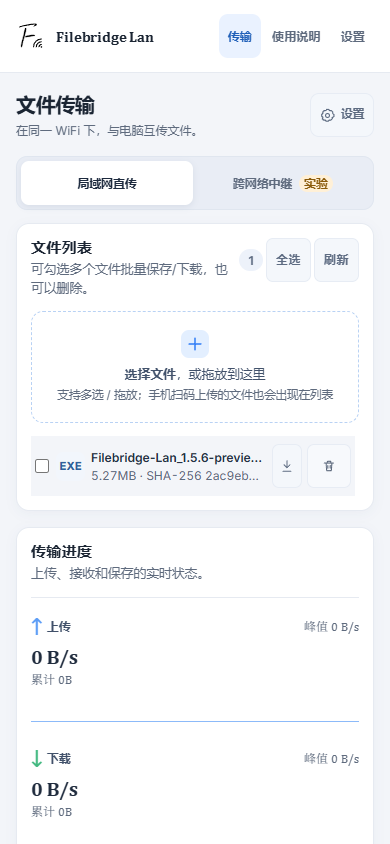
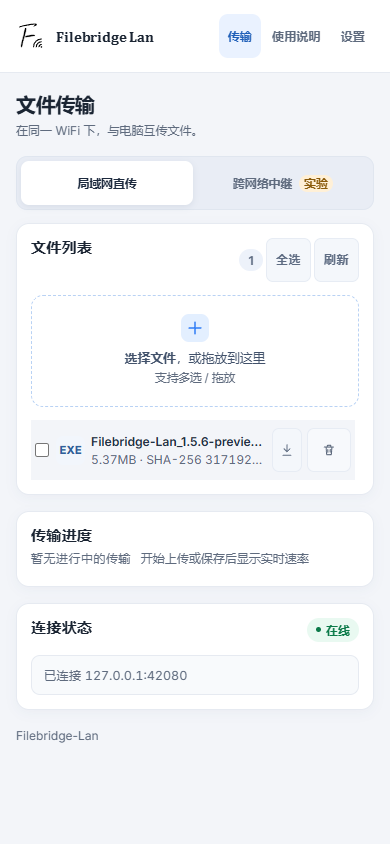
style: refine desktop and mobile interface

diff --git a/src/http/HttpTransfer.tsx b/src/http/HttpTransfer.tsx
@@ -1470,6 +1470,7 @@ export function HttpTransfer({ lanService = null, networkBlocked = false }: Http
       ? liveSpeed
       : 0;
   const effectiveDownloadSpeed = activeDownload ? downloadSpeed : 0;
+  const hasActiveTransfer = Boolean(upload || visibleLiveUpload || activeDownload);
   const [uploadPeak, setUploadPeak] = useState(0);
   const [downloadPeak, setDownloadPeak] = useState(0);
   const [uploadHistory, setUploadHistory] = useState<number[]>(() => Array(24).fill(0));
@@ -1543,13 +1544,7 @@ export function HttpTransfer({ lanService = null, networkBlocked = false }: Http
   const allSelected = files.length > 0 && files.every((file) => selectedIds.has(file.id));
 
   const pairingLabel = token
-    ? publicPaused
-      ? '已配对 · 当前不可连接'
-      : online === true
-        ? '已配对 · 在线'
-        : online === false
-          ? '已配对 · 服务异常'
-          : '已配对 · 连接中'
+    ? '已配对'
     : codeError
       ? '授权已过期'
       : '未配对';
@@ -1747,7 +1742,6 @@ export function HttpTransfer({ lanService = null, networkBlocked = false }: Http
           <div className="card-head">
             <div>
               <h2>文件列表</h2>
-              <p>可勾选多个文件批量保存/下载，也可以删除。</p>
             </div>
             <div className="card-actions">
               <span className="count-badge">{files.length}</span>
@@ -1831,7 +1825,7 @@ export function HttpTransfer({ lanService = null, networkBlocked = false }: Http
           >
             <span className="drop-icon" aria-hidden><Icon name="plus" size={20} /></span>
             <p><strong>选择文件</strong>，或拖放到这里</p>
-            <p className="hint">支持多选 / 拖放；手机扫码上传的文件也会出现在列表</p>
+            <p className="hint">支持多选 / 拖放</p>
           </div>
 
           {needsPicker && (
@@ -1970,34 +1964,36 @@ export function HttpTransfer({ lanService = null, networkBlocked = false }: Http
           </div>
         </article>
 
-        <article className="card progress-card">
+        <article className={`card progress-card${hasActiveTransfer ? '' : ' is-idle'}`}>
           <div className="card-head">
             <div>
               <h2>传输进度</h2>
-              <p>上传、接收和保存的实时状态。</p>
+              {hasActiveTransfer && <p>上传、接收和保存的实时状态。</p>}
             </div>
           </div>
 
-          <div className="rate-grid">
-            <RateCard
-              label="上传"
-              icon="↑"
-              speed={effectiveUploadSpeed}
-              peak={uploadPeak}
-              total={uploadTotal}
-              history={uploadHistory}
-              tone="blue"
-            />
-            <RateCard
-              label="下载"
-              icon="↓"
-              speed={effectiveDownloadSpeed}
-              peak={downloadPeak}
-              total={downloadTotal}
-              history={downloadHistory}
-              tone="green"
-            />
-          </div>
+          {hasActiveTransfer && (
+            <div className="rate-grid">
+              <RateCard
+                label="上传"
+                icon="↑"
+                speed={effectiveUploadSpeed}
+                peak={uploadPeak}
+                total={uploadTotal}
+                history={uploadHistory}
+                tone="blue"
+              />
+              <RateCard
+                label="下载"
+                icon="↓"
+                speed={effectiveDownloadSpeed}
+                peak={downloadPeak}
+                total={downloadTotal}
+                history={downloadHistory}
+                tone="green"
+              />
+            </div>
+          )}
 
           {upload && (
             <div className="progress-block">
@@ -2025,14 +2021,7 @@ export function HttpTransfer({ lanService = null, networkBlocked = false }: Http
                 {upload.checking && <span>正在核对服务器已保存进度…</span>}
                 {upload.status === 'cancelled' && <span>已取消，可继续上传</span>}
                 {upload.status === 'error' && <span className="text-error" role="alert">{upload.error || '上传失败'}</span>}
-                {!upload.checking
-                  && upload.status !== 'done'
-                  && uploadInFlightBytes > uploadLoadedBytes
-                  && (
-                    <span className="upload-diagnostic">
-                      浏览器已发送 {formatBytes(uploadInFlightBytes)}，服务器已保存 {formatBytes(uploadLoadedBytes)}
-                    </span>
-                  )}
+
               </div>
               <details className="upload-diag" open={upload.status === 'error'}>
                 <summary>上传诊断</summary>
@@ -2118,11 +2107,10 @@ export function HttpTransfer({ lanService = null, networkBlocked = false }: Http
             </div>
           )}
 
-          {!upload && !showLiveUpload && !activeDownload && (
-            <div className="progress-empty">
-              <Icon name="arrow-up-right" size={16} />
-              <p>暂无进行中的传输</p>
-              <p className="hint">上传或保存文件后，这里会显示速度和剩余时间。</p>
+          {!hasActiveTransfer && (
+            <div className="progress-idle">
+              <span>暂无进行中的传输</span>
+              <span className="hint">开始上传或保存后显示实时速率</span>
             </div>
           )}
         </article>
@@ -2131,7 +2119,7 @@ export function HttpTransfer({ lanService = null, networkBlocked = false }: Http
           <div className="card-head">
             <div>
               <h2>{desktop ? '扫码连接' : '连接状态'}</h2>
-              <p>{desktop ? '同一 WiFi 下，手机扫码即可打开。' : '这台设备已连接到电脑端。'}</p>
+              {desktop && <p>同一 WiFi 下，手机扫码即可打开。</p>}
             </div>
             <span className={`status-pill ${statusClass === 'chip-ok' ? 'ok' : statusClass === 'chip-bad' ? 'danger' : 'warn'}`}>
               {statusLabel}
@@ -2140,10 +2128,8 @@ export function HttpTransfer({ lanService = null, networkBlocked = false }: Http
 
           {serviceNotice}
 
-          {!desktop && (
-            <p className="connected-phone-line">
-              已连接 {window.location.host} · 已配对
-            </p>
+          {!desktop && token && (
+            <p className="connected-phone-line">已连接 {window.location.host}</p>
           )}
 
           {desktop && online === true && (

diff --git a/src/App.tsx b/src/App.tsx
@@ -169,7 +169,7 @@ export default function App() {
         <main className="receiver-main">
           <RelayTransfer initialLink={relayLink} standalone />
         </main>
-        <footer className="app-footer">Filebridge-Lan v1.5.6 · 实验性中继</footer>
+        <footer className="app-footer">Filebridge-Lan</footer>
         <BackToTop />
       </div>
     );
@@ -244,13 +244,9 @@ export default function App() {
               <button type="button" className="btn btn-ghost" onClick={() => setView('transfer')}>
                 返回传输
               </button>
-            ) : activeMode === 'lan' ? (
-              <button type="button" className="btn btn-ghost" onClick={() => setView('settings')}>
-                <Icon name="settings" size={15} /> 设置
-              </button>
-            ) : (
+            ) : activeMode === 'relay' ? (
               <span className="status-pill warn">实验性</span>
-            )}
+            ) : null}
           </div>
         </header>
 
@@ -288,7 +284,7 @@ export default function App() {
           )}
         </main>
 
-        <footer className="app-footer">Filebridge-Lan v1.5.6 · 局域网直传 / 实验性中继</footer>
+        <footer className="app-footer">Filebridge-Lan</footer>
       </div>
 
       {helpOpen && (

diff --git a/src/http/NearbyComputers.tsx b/src/http/NearbyComputers.tsx
@@ -98,8 +98,7 @@ export function NearbyComputers({ onConnect, activePeerId = null, activeState = 
         </div>
       ) : peers.length === 0 ? (
         <div className="nearby-empty">
-          <span>暂时没有发现其他电脑。</span>
-          <span>请确认双方在同一子网、Windows 网络为专用，并关闭 AP/客户端隔离。</span>
+          <span>暂时没有发现其他电脑 · 确认同一子网且为专用网络</span>
           {discovery?.bound && (
             <span className="nearby-diagnostic">
               UDP 42081 已监听 · {sendTargetCount} 个发送目标

diff --git a/src/dashboard.css b/src/dashboard.css
@@ -2978,3 +2978,25 @@ input {
     gap: 8px;
   }
 }
+/* Idle transfer card: keep the capability, remove the six zero readings. */
+.progress-card.is-idle {
+  min-height: 0;
+  padding-bottom: 18px;
+}
+
+.progress-card.is-idle .card-head {
+  margin-bottom: 4px;
+}
+
+.progress-idle {
+  display: flex;
+  flex-wrap: wrap;
+  align-items: baseline;
+  gap: 4px 10px;
+  color: var(--text-dim);
+  font-size: 0.78rem;
+}
+
+.progress-idle .hint {
+  font-size: 0.75rem;
+}
